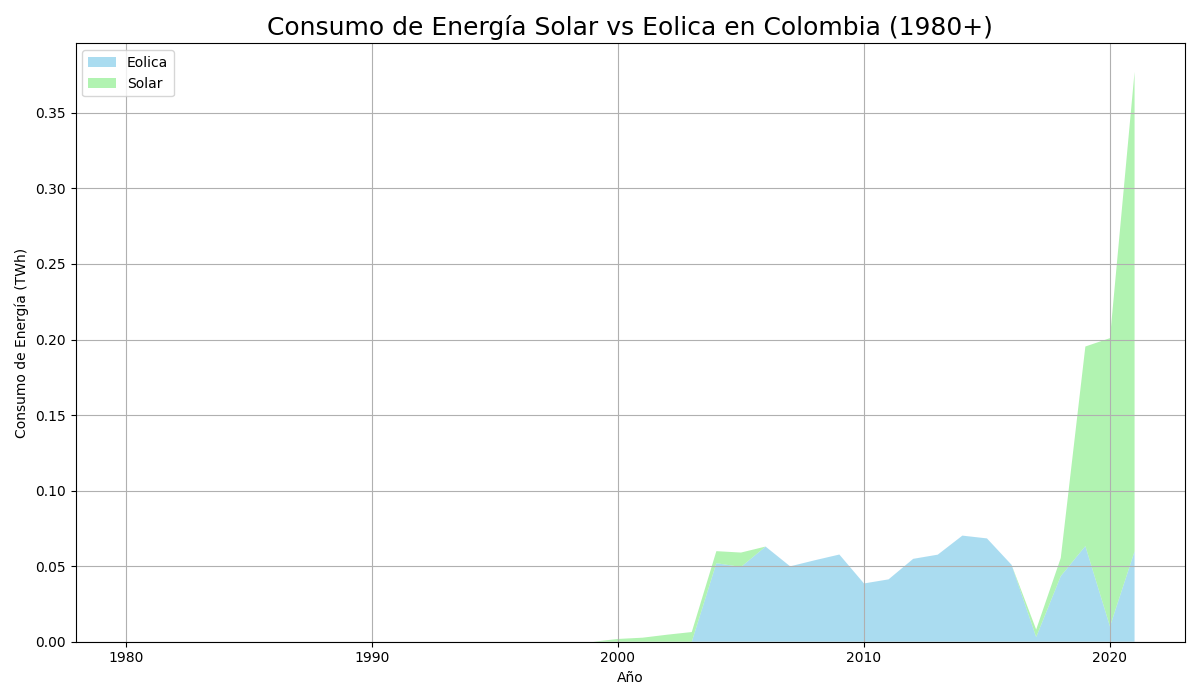
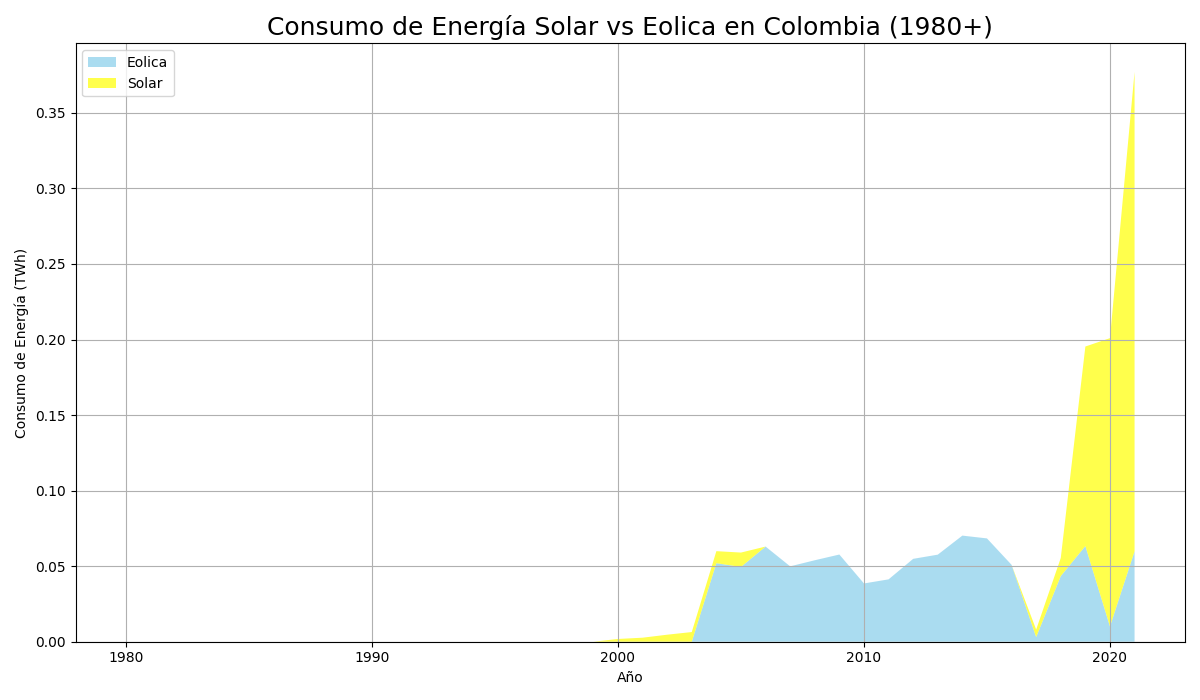
Se modifica el archivo py para corregir el problema de las graficas

diff --git a/J_Hidraulica/hidraulica.html b/J_Hidraulica/hidraulica.html
@@ -111,23 +111,23 @@
         <h2>Comparativa Energias</h2>
         <div class="grafContainer">
                 <div class="grafica">
-                <img src="py/vsConsumoProduccion.png" alt="comparativa Consumo vs produccion energetica Eolica">
+                <img src="/J_Eolica/py/vsConsumoProduccion.png" alt="comparativa Consumo vs produccion energetica Eolica">
                 <p>Lorem ipsum dolor sit amet consectetur, adipisicing elit. Optio harum nemo porro amet nihil dolorum distinctio praesentium odio quaerat laboriosam veniam fugiat saepe, facilis similique cupiditate est, suscipit eaque quisquam?</p>
             </div>
             <div class="grafica">
-                <img src="py/torta.png" alt="comparativa Consumo vs produccion energetica">
+                <img src="/J_Eolica/py/torta.png" alt="comparativa Consumo vs produccion energetica">
                 <p>Lorem ipsum dolor sit amet consectetur adipisicing elit. Delectus rem porro eos fugiat aliquid temporibus, voluptatum rerum, sequi ex unde exercitationem mollitia quibusdam, dignissimos amet consectetur! Deleniti dolorem placeat esse.</p>
             </div>
             <div class="grafica">
-                <img src="py/barras.png" alt="Analisis de consumo de energias en colombia">
+                <img src="/J_Eolica/py/barras.png" alt="Analisis de consumo de energias en colombia">
                 <p>Lorem ipsum dolor sit amet, consectetur adipisicing elit. Sapiente voluptate blanditiis, reiciendis ex nihil asperiores quaerat vero, incidunt, nemo ad similique! Repudiandae porro, odit vero animi laboriosam sed. Pariatur, repellat.</p>
             </div>
             <div class="grafica">
-                <img src="py/AreaTodos.png" alt="comparativa Consumo vs produccion energetica">
+                <img src="/J_Eolica/py/AreaTodos.png" alt="comparativa Consumo vs produccion energetica">
                 <p>Lorem ipsum dolor sit amet consectetur adipisicing elit. Saepe maxime iste repellendus tempore fuga deleniti suscipit omnis dicta magnam sunt, non dolorem, vel a aut temporibus ipsum, illo provident incidunt.</p>
             </div>
             <div class="grafica">
-                <img src="py/AreaSolarEolica.png" alt="comparativa Consumo vs produccion energetica">
+                <img src="/J_Eolica/py/AreaSolarEolica.png" alt="comparativa Consumo vs produccion energetica">
                 <p>Lorem ipsum dolor sit, amet consectetur adipisicing elit. Impedit vitae quaerat ex. Repellat sapiente accusamus cumque reiciendis, est distinctio quisquam deserunt voluptatibus aspernatur dolor quibusdam maxime, fugiat ducimus dolorum itaque!</p>
             </div>
         </div>

diff --git a/js/home/pais-energia-produccion.js b/js/home/pais-energia-produccion.js
@@ -1,5 +1,5 @@
 document.addEventListener("DOMContentLoaded", function () {
-    fetch('../data/produccion.json')
+    fetch('/data/produccion.json')
         .then(response => response.json())
         .then(data => {
             const paisSelect = document.getElementById("pais2");

diff --git a/J_Eolica/py/ConsumoExcel.py b/J_Eolica/py/ConsumoExcel.py
@@ -2,9 +2,12 @@ import pandas as pd
 import matplotlib.pyplot as plt
 
 # Crea un dataframe que lee el archivo csv de consumo de energia desde la ruta relativa
-df = pd.read_csv("py/2-ConsumoEnergia.csv")
+df = pd.read_csv("J_Eolica\py\ConsumoEnergia.csv")
 # Crea un dataframe que lee el archivo csv de produccion de  de energia desde la ruta relativa
-dfPcc = pd.read_csv("py/3-ProduccionEnergia.csv")
+dfPcc = pd.read_csv("J_Eolica\py\ProduccionEnergia.csv")
+print(df)
+print(dfPcc)
+
 
 # Genero un filtro que muestre desde el 2000 porque antes no se evidencia produccion de esa energia (pcc-csmo)
 dfColombiaCsmo = df[(df["pais"]=='Colombia') & (df['year']>2000)]
@@ -31,7 +34,7 @@ plt.tight_layout()
 plt.legend()
 
 
-plt.savefig("py/vsConsumoProduccion.png")
+plt.savefig("J_Eolica/py/vsConsumoProduccion.png")
 plt.show()
 plt.close()
 print("Gráfico guardado correctamente.")
@@ -42,15 +45,15 @@ datosUltimoAnio=dfColombiaCsmo[dfColombiaCsmo['year']==ultimoAnio]
 
 energias= ['solar', 'eolica', 'biomasa', 'hidraulica']
 valores= [
-              float(datosUltimoAnio['solar']),
-              float(datosUltimoAnio['eolica']),
-              float(datosUltimoAnio['biomasa']),
-              float(datosUltimoAnio['hidro'])
-          ]
+            float(datosUltimoAnio['solar']),
+            float(datosUltimoAnio['eolica']),
+            float(datosUltimoAnio['biomasa']),
+            float(datosUltimoAnio['hidro'])
+        ]
 plt.figure(figsize=(12,7))
 
 # 4. Crear la gráfica de pastel
-colores = ["#EFD74E", "#87CEEB", "#4E5CED", "#F8B687"]  # Amarillo solar, azul eólica, verde hidráulica, marrón biomasa
+colores = ["#4F4718", "#87CEEB", "#4E5CED", "#F8B687"]  # Amarillo solar, azul eólica, verde hidráulica, marrón biomasa
 plt.pie(valores, labels=energias, autopct='%1.1f%%', startangle=140, colors=colores, explode=[0.2,0.2,0.5,0.2])
 
 plt.title(f"Participacion de las energias Renovables en Colombia - {ultimoAnio}", fontsize=18)
@@ -58,7 +61,7 @@ plt.axis('equal')  # Asegura que la torta sea circular
 
 # # 5. Mostrar
 plt.legend()
-plt.savefig("py/torta")
+plt.savefig("J_Eolica/py/torta")
 plt.show()
 
 
@@ -89,7 +92,7 @@ plt.grid(axis='y', linestyle='--', alpha=0.7)
 plt.tight_layout()
 
 # Guardar grafico de Barras
-plt.savefig("py/barras")
+plt.savefig("J_Eolica/py/barras")
 
 # 6. Mostrar gráfico
 plt.show()
@@ -97,7 +100,7 @@ plt.show()
 
 # haremos un grafico de area para revisar las comparaciones
 # Leer el archivo de consumo
-df = pd.read_csv("py/2-ConsumoEnergia.csv")
+df = pd.read_csv("J_Eolica\py\ConsumoEnergia.csv")
 
 # Filtrar Colombia y años desde 1980
 dfCol = df[(df['pais'] == 'Colombia') & (df['year'] >= 1980)]
@@ -120,7 +123,7 @@ plt.ylabel("Consumo de Energía (TWh)")
 plt.legend(loc='upper left')
 plt.grid(True)
 plt.tight_layout()
-plt.savefig("py/AreaTodos")
+plt.savefig("J_Eolica/py/AreaTodos")
 plt.show()
 
 plt.figure(figsize=(12, 7))
@@ -129,7 +132,7 @@ plt.stackplot(dfCol['year'],
               dfCol['eolica'],
               dfCol['solar'],
               labels=['Eolica', 'Solar'],
-              colors=['skyblue', 'lightgreen'],
+              colors=['skyblue', 'yellow'],
               alpha=0.7)
 
 plt.title("Consumo de Energía Solar vs Eolica en Colombia (1980+)",fontsize=18)
@@ -138,6 +141,6 @@ plt.ylabel("Consumo de Energía (TWh)")
 plt.legend(loc='upper left')
 plt.grid(True)
 plt.tight_layout()
-plt.savefig("py/AreaSolarEolica")
+plt.savefig("J_Eolica/py/AreaSolarEolica")
 plt.show()
 

diff --git a/J_Hidraulica/py/ConsumoExcel.py b/J_Hidraulica/py/ConsumoExcel.py
@@ -2,9 +2,9 @@ import pandas as pd
 import matplotlib.pyplot as plt
 
 # Crea un dataframe que lee el archivo csv de consumo de energia desde la ruta relativa
-df = pd.read_csv("py/2-ConsumoEnergia.csv")
+df = pd.read_csv("py/2ConsumoEnergia.csv")
 # Crea un dataframe que lee el archivo csv de produccion de  de energia desde la ruta relativa
-dfPcc = pd.read_csv("py/3-ProduccionEnergia.csv")
+dfPcc = pd.read_csv("py/3ProduccionEnergia.csv")
 
 # Genero un filtro que muestre desde el 2000 porque antes no se evidencia produccion de esa energia (pcc-csmo)
 dfColombiaCsmo = df[(df["pais"]=='Colombia') & (df['year']>2000)]
@@ -97,7 +97,7 @@ plt.show()
 
 # haremos un grafico de area para revisar las comparaciones
 # Leer el archivo de consumo
-df = pd.read_csv("py/2-ConsumoEnergia.csv")
+df = pd.read_csv("py/2ConsumoEnergia.csv")
 
 # Filtrar Colombia y años desde 1980
 dfCol = df[(df['pais'] == 'Colombia') & (df['year'] >= 1980)]
